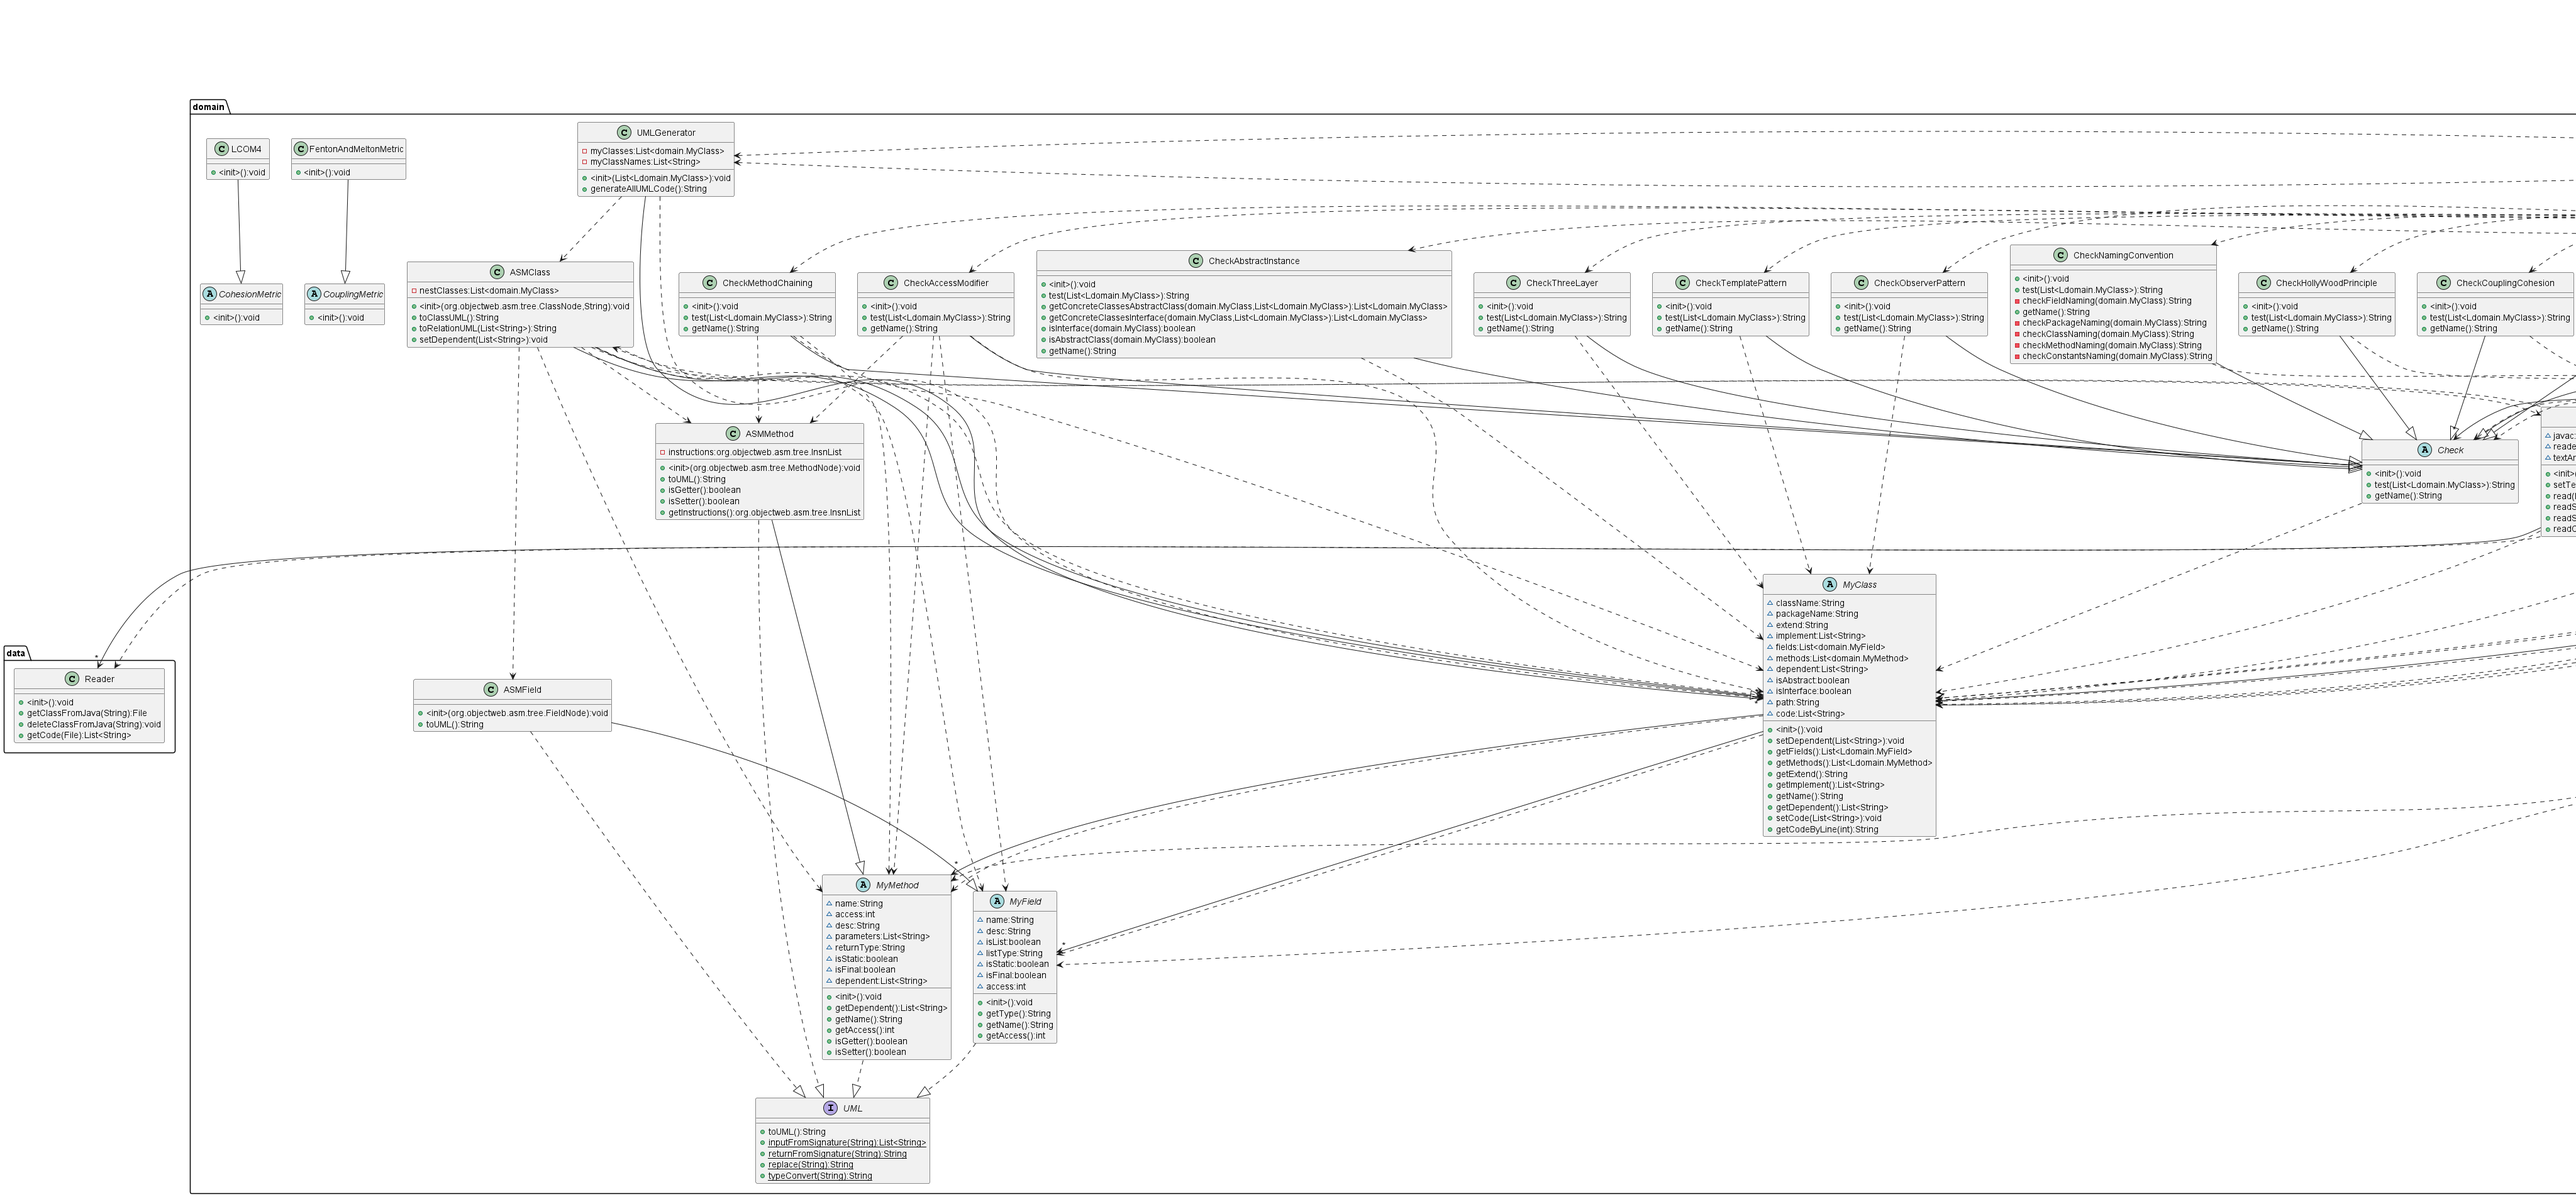
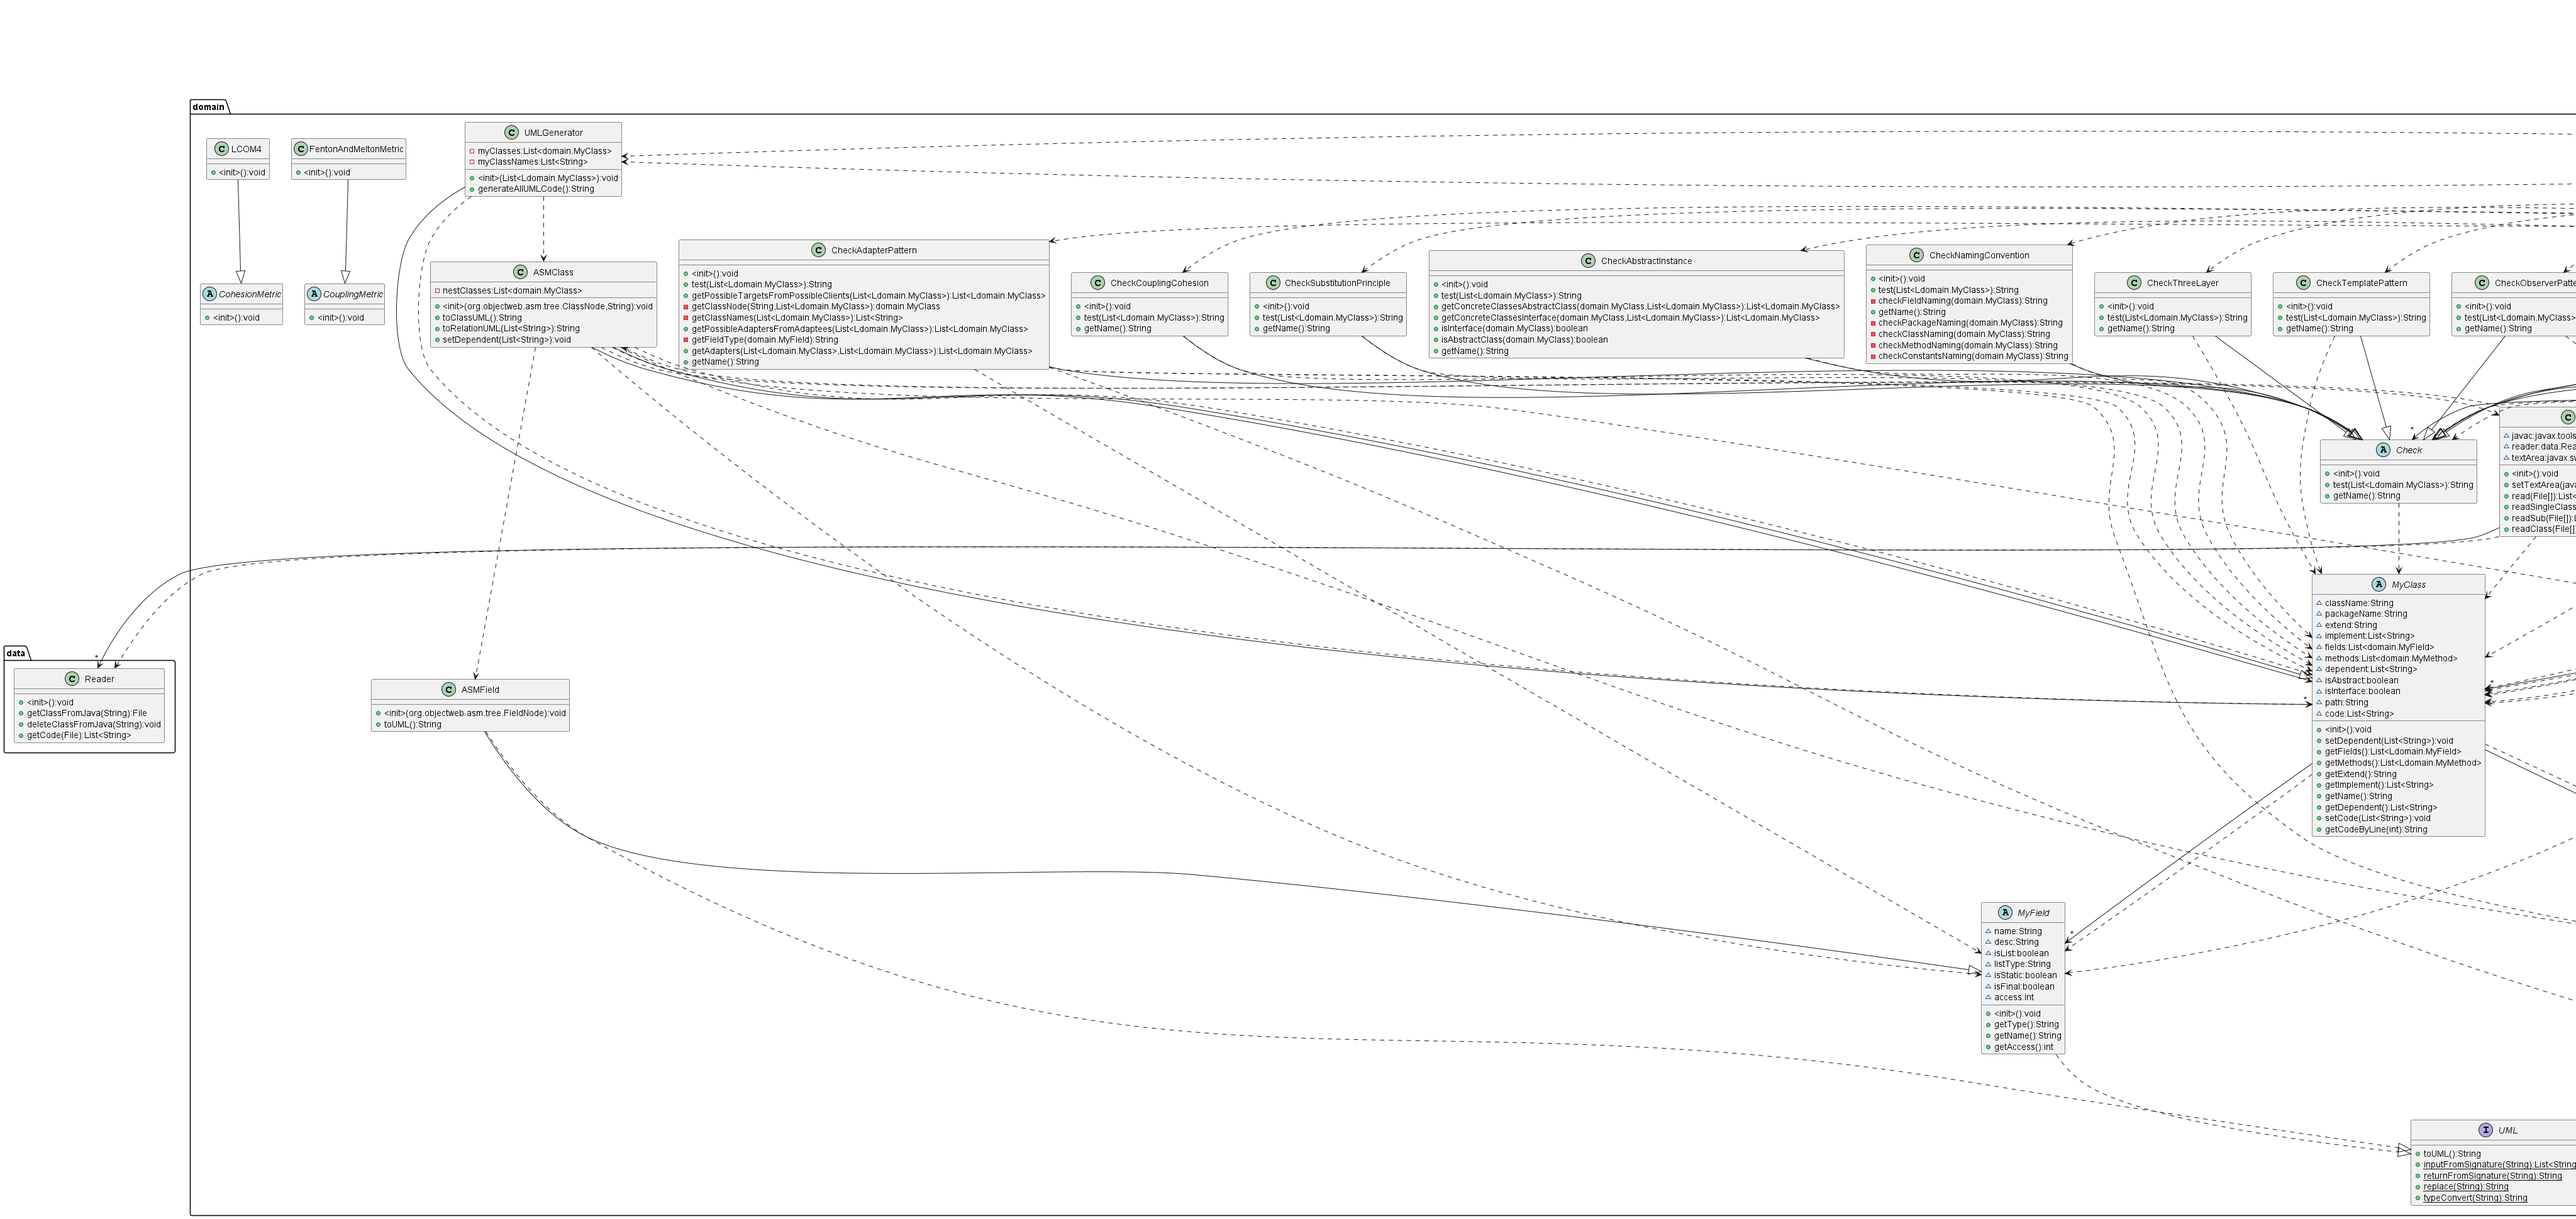
update design

diff --git a/src/main/java/presentation/MainView.java b/src/main/java/presentation/MainView.java
@@ -34,7 +34,7 @@ public class MainView {
 		this.checks.add(new CheckThreeLayer());
 		this.checks.add(new CheckNamingConvention());
 		this.checks.add(new CheckTemplatePattern());
-//		substitutionPrinciple();
+		this.checks.add(new CheckSubstitutionPrinciple());
 		
 		JFrame frame=new JFrame();
 		frame.setTitle("linter");
@@ -160,7 +160,7 @@ public class MainView {
 		});
 		p1.add(b4);
 		
-		JButton b5=new JButton("show class names");
+		JButton b5=new JButton("show loaded class names");
 		b5.addActionListener(new ActionListener() {
 
 			@Override

diff --git a/src/test/java/JUnitTests/TestCheckDataClass.java b/src/test/java/JUnitTests/TestCheckDataClass.java
@@ -3,7 +3,6 @@ package JUnitTests;
 import domain.Check;
 import domain.CheckDataClass;
 import domain.MyClass;
-import org.junit.jupiter.api.BeforeEach;
 import org.junit.jupiter.api.Test;
 
 import java.util.List;
@@ -18,7 +17,7 @@ public class TestCheckDataClass {
     void detectDataClass_success() {
         classes = Helper.getClasses("hasDataClass");
         String result = check.test(classes);
-        assertEquals("", result);
+        assertEquals("There's no data class.", result);
     }
 
     @Test

diff --git a/src/main/java/domain/CheckSubstitutionPrinciple.java b/src/main/java/domain/CheckSubstitutionPrinciple.java
@@ -1,0 +1,19 @@
+package domain;
+
+import java.util.List;
+
+public class CheckSubstitutionPrinciple extends Check{
+
+	@Override
+	public String test(List<MyClass> myClasses) {
+		// TODO Auto-generated method stub
+		return null;
+	}
+
+	@Override
+	public String getName() {
+		// TODO Auto-generated method stub
+		return "check substitution principle";
+	}
+
+}

diff --git a/src/main/java/presentation/UMLViewer.java b/src/main/java/presentation/UMLViewer.java
@@ -3,10 +3,7 @@ package presentation;
 import java.io.FileOutputStream;
 import java.io.IOException;
 import java.io.OutputStream;
-import java.awt.Image;
 import java.io.File;
-import java.io.FileNotFoundException;
-
 import javax.swing.*;
 import net.sourceforge.plantuml.SourceStringReader;
 

diff --git a/src/main/java/domain/ASMMethodInsn.java b/src/main/java/domain/ASMMethodInsn.java
@@ -3,8 +3,6 @@ package domain;
 import org.objectweb.asm.tree.AbstractInsnNode;
 import org.objectweb.asm.tree.MethodInsnNode;
 
-import java.util.List;
-
 public class ASMMethodInsn extends MyMethodInsn{
 
 
